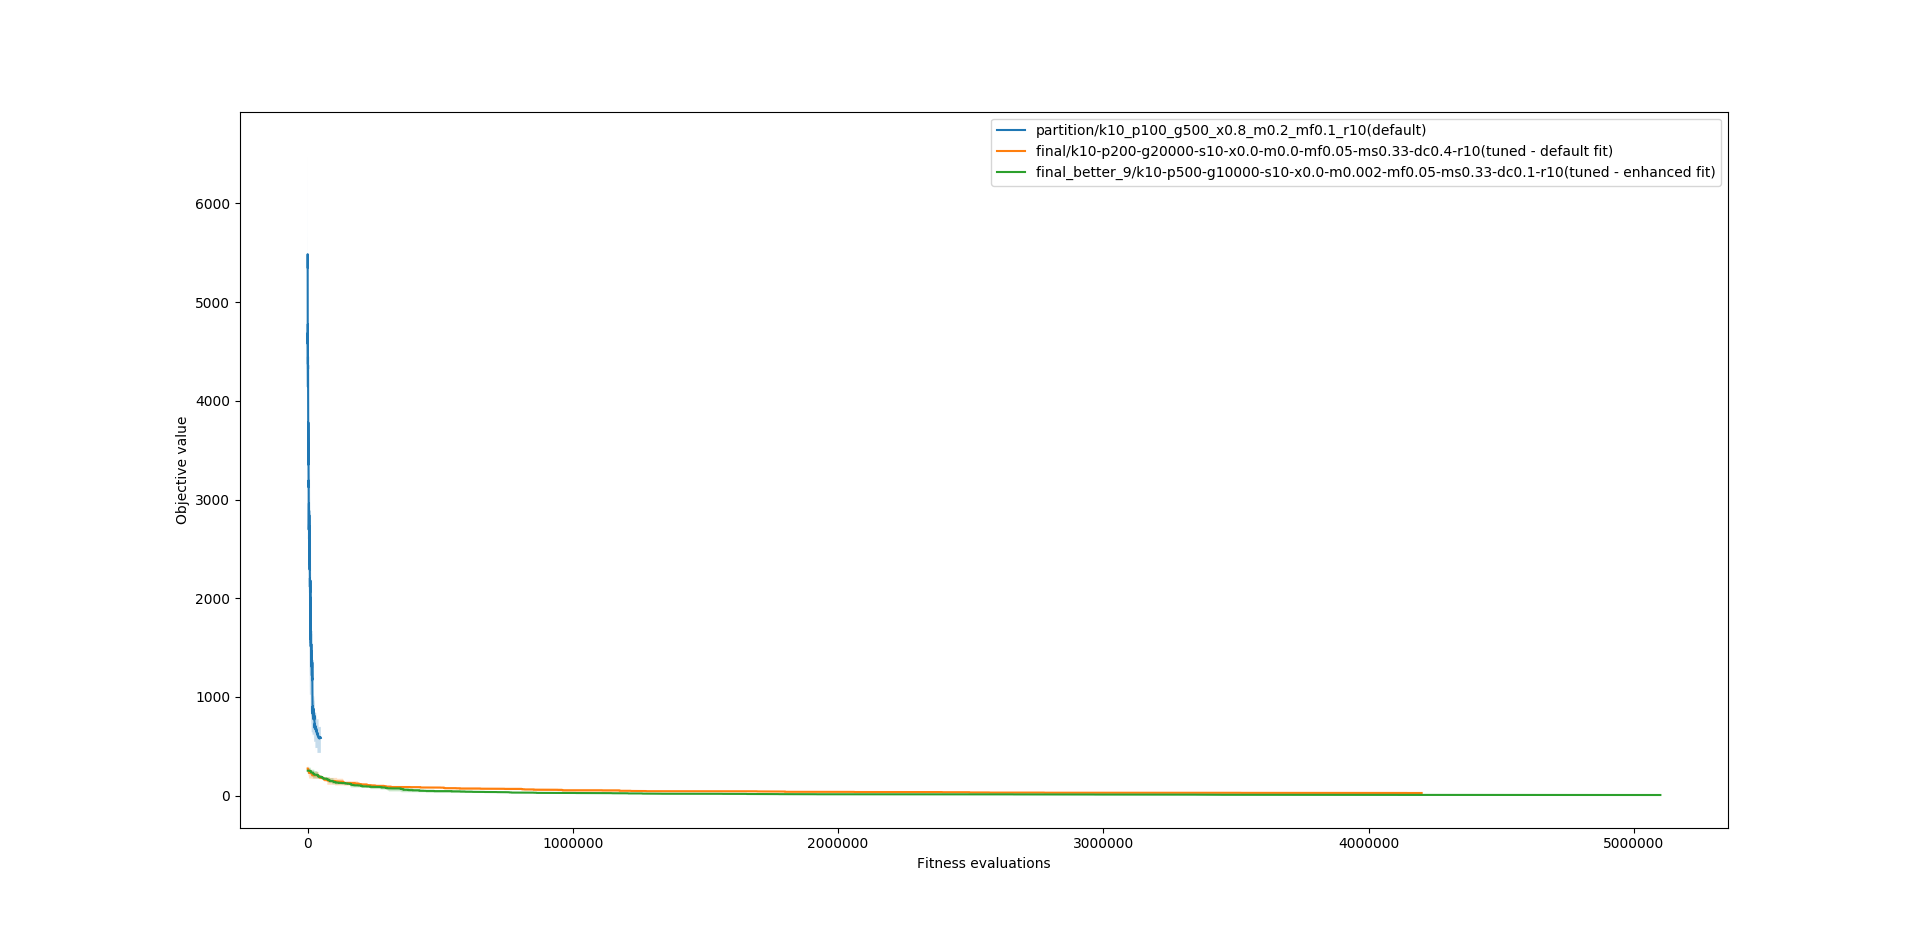
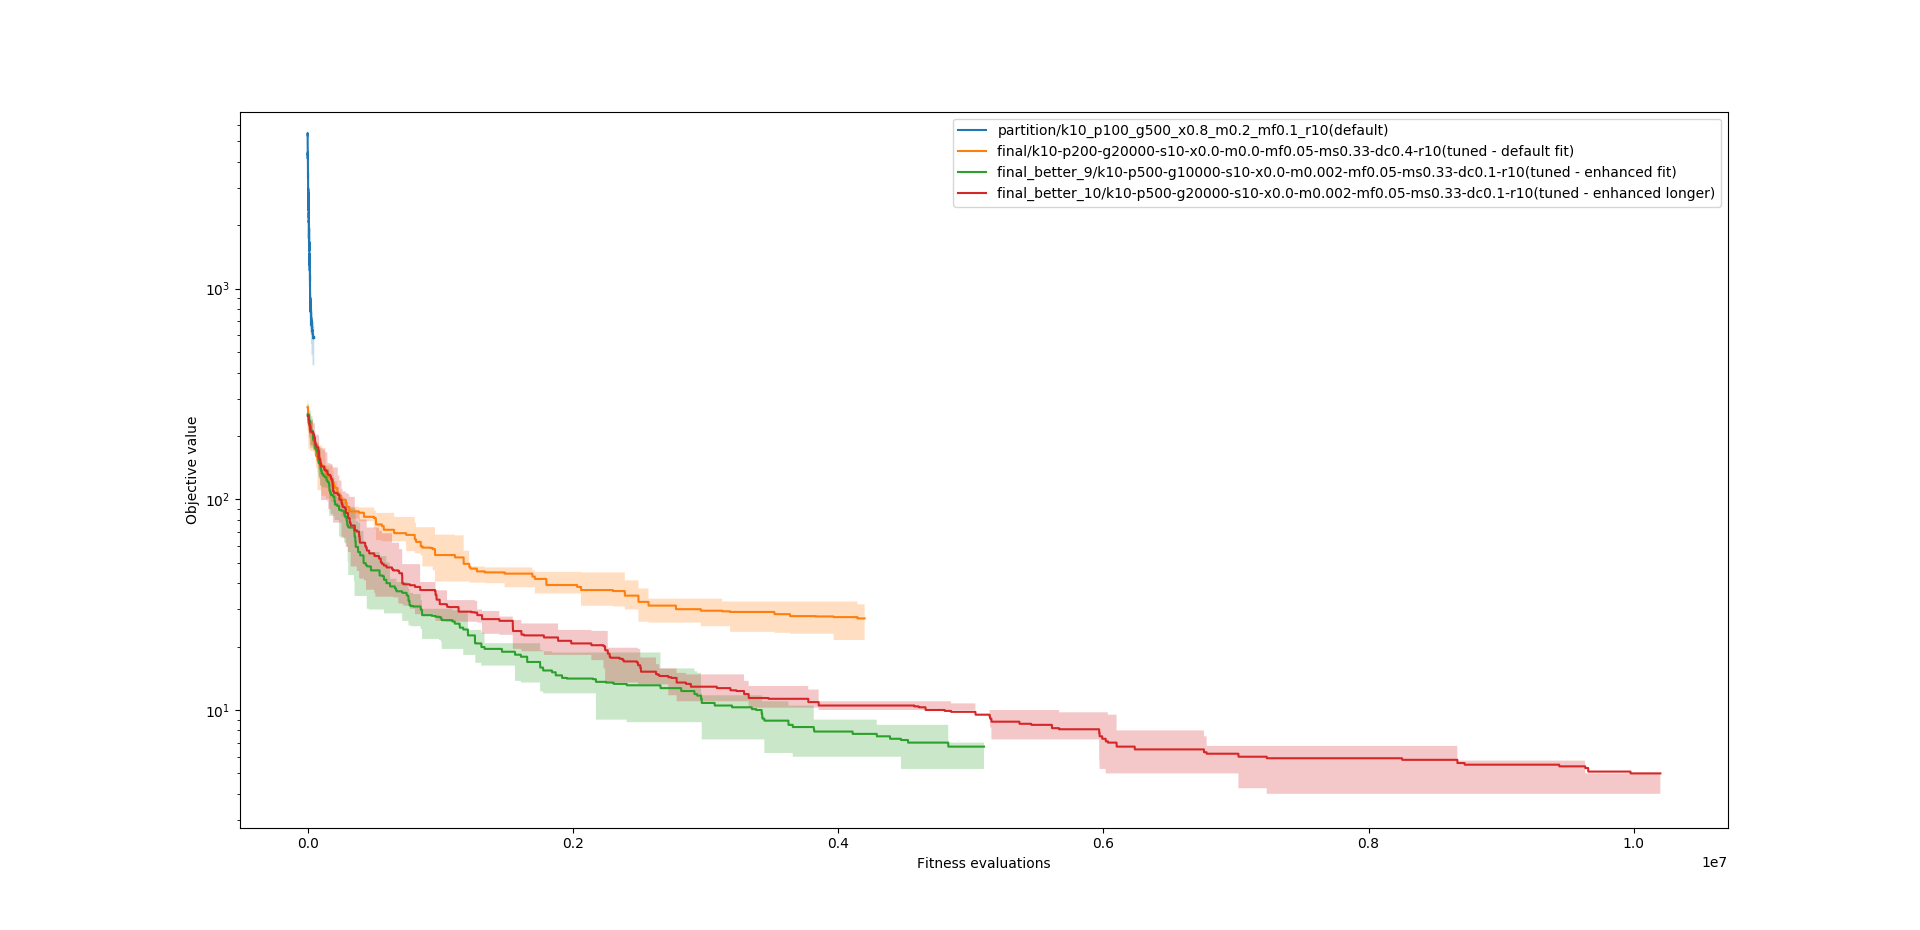
new graphs

diff --git a/labs/02/plot.py b/labs/02/plot.py
@@ -3,10 +3,12 @@ import utils
 utils.plot_experiments('.', [
     'partition/k10_p100_g500_x0.8_m0.2_mf0.1_r10(default)',
     'final/k10-p200-g20000-s10-x0.0-m0.0-mf0.05-ms0.33-dc0.4-r10(tuned)',
-    'final_better_9/k10-p500-g10000-s10-x0.0-m0.002-mf0.05-ms0.33-dc0.1-r10(tuned)'
+    'final_better_9/k10-p500-g10000-s10-x0.0-m0.002-mf0.05-ms0.33-dc0.1-r10(tuned)',
+    'final_better_10/k10-p500-g20000-s10-x0.0-m0.002-mf0.05-ms0.33-dc0.1-r10(tuned)'
     ],
     rename_dict={
         'final/k10-p200-g20000-s10-x0.0-m0.0-mf0.05-ms0.33-dc0.4-r10(tuned)': 'final/k10-p200-g20000-s10-x0.0-m0.0-mf0.05-ms0.33-dc0.4-r10(tuned - default fit)',
-        'final_better_9/k10-p500-g10000-s10-x0.0-m0.002-mf0.05-ms0.33-dc0.1-r10(tuned)': 'final_better_9/k10-p500-g10000-s10-x0.0-m0.002-mf0.05-ms0.33-dc0.1-r10(tuned - enhanced fit)'
+        'final_better_9/k10-p500-g10000-s10-x0.0-m0.002-mf0.05-ms0.33-dc0.1-r10(tuned)': 'final_better_9/k10-p500-g10000-s10-x0.0-m0.002-mf0.05-ms0.33-dc0.1-r10(tuned - enhanced fit)',
+        'final_better_10/k10-p500-g20000-s10-x0.0-m0.002-mf0.05-ms0.33-dc0.1-r10(tuned)': 'final_better_10/k10-p500-g20000-s10-x0.0-m0.002-mf0.05-ms0.33-dc0.1-r10(tuned - enhanced longer)'
     })
 
